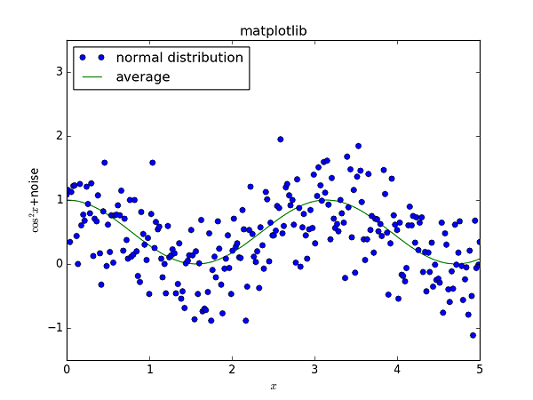
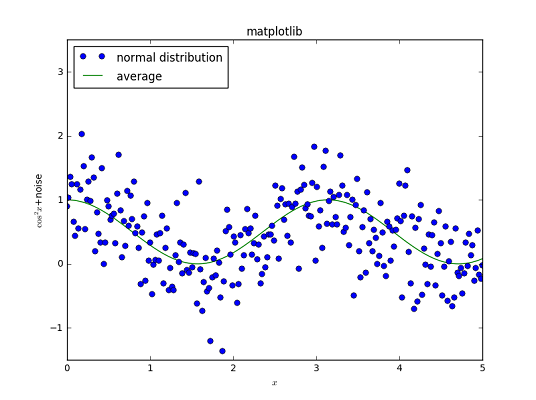
0.1.6

diff --git a/publib/publib.py b/publib/publib.py
@@ -50,13 +50,19 @@ from warnings import warn
 style_params={
     'basic':{'clean_spines':True,
                'draggable_legend':True,
-               'tight_layout':True
+               'tight_layout':True,
+               'labelpad':10,
                },
     'article':{'clean_spines':False,
+               },
+    'article_s':{'clean_spines':False,
+               'labelpad':5,
+               'spine_linewidth':0.5,
                },
     'poster':{},
     'B&W':{}
     }
+    
 
 def set_style(style='basic',**kwargs):
     ''' Changes Matplotlib basic style to produce high quality graphs. Call 
@@ -170,6 +176,10 @@ def _fix_style(styles,ax=None,**kwargs):
         except:
             raise ValueError('Please select an axis')
     
+    if 'spine_linewidth' in params.keys():
+        for spine in ['left', 'bottom','right','top']:
+            ax.spines[spine].set_linewidth(params['spine_linewidth'])
+    
     if params['clean_spines']:
         ax.yaxis.set_ticks_position('left')
         ax.xaxis.set_ticks_position('bottom')
@@ -181,8 +191,8 @@ def _fix_style(styles,ax=None,**kwargs):
         plt.tight_layout()
     
     # Labelpads, offsets, etc.
-    ax.xaxis.labelpad = 10
-    ax.yaxis.labelpad = 10
+    ax.xaxis.labelpad = params['labelpad']
+    ax.yaxis.labelpad = params['labelpad']
     
     titleoffset = 1.05
     ax.title.set_y(titleoffset)
@@ -307,9 +317,9 @@ def _test(**kwargs):
         example('article',seed)
         fix_style('article')
         
-        set_style(['article','B&W'])
-        example('article',seed)
-        fix_style(['article','B&W'])
+#        set_style(['article','B&W'])
+#        example('article',seed)
+#        fix_style(['article','B&W'])
 
         set_style('poster',**{'lines.linewidth':5})
         example('poster',seed)

diff --git a/setup.py b/setup.py
@@ -7,7 +7,7 @@ if os.path.exists('README.rst'):
     long_description = codecs.open('README.rst', encoding="utf-8").read()
         
 setup(name='publib',
-      version='0.1.6',
+      version='0.1.7',
       description='Produce publication-level quality images on top of Matplotlib',
     	long_description=long_description,
       url='https://github.com/erwanp/publib',

diff --git a/README.md b/README.md
@@ -111,6 +111,8 @@ Run the _test() routine in publib.py for more examples.
 
 ## Changes
 
+- 0.1.6 : default fonts to Times in article
+
 - 0.1.6 : improve Readme
 
 - 0.1.5 : changed those buff_style functions in fix_style 
